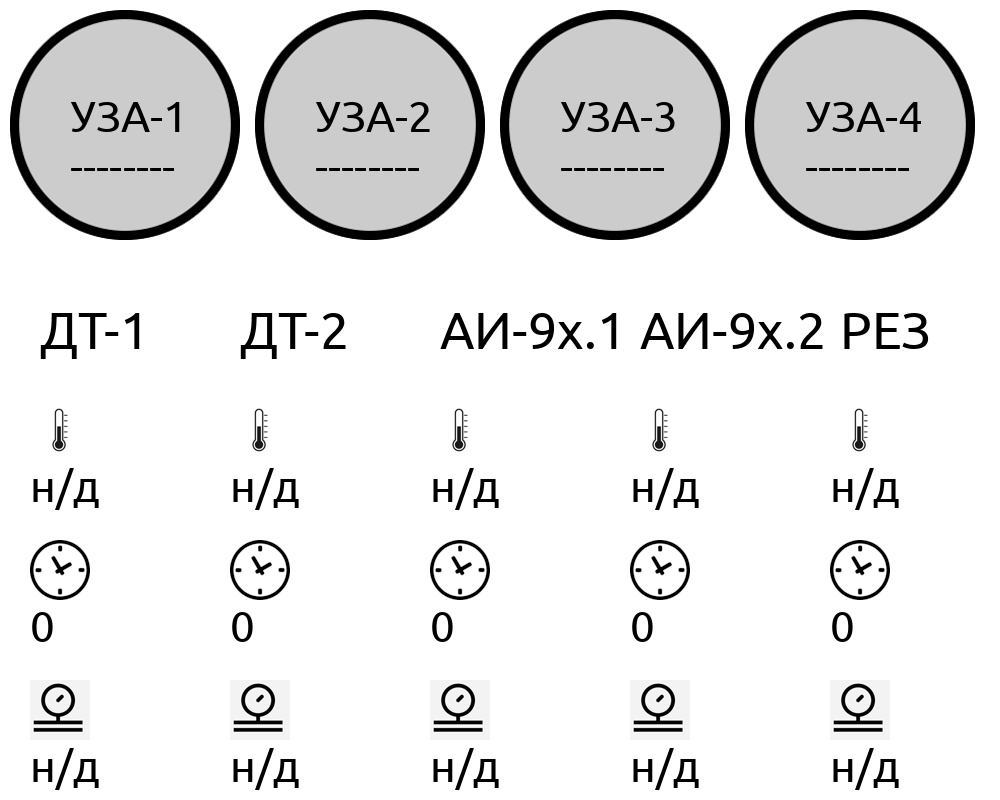
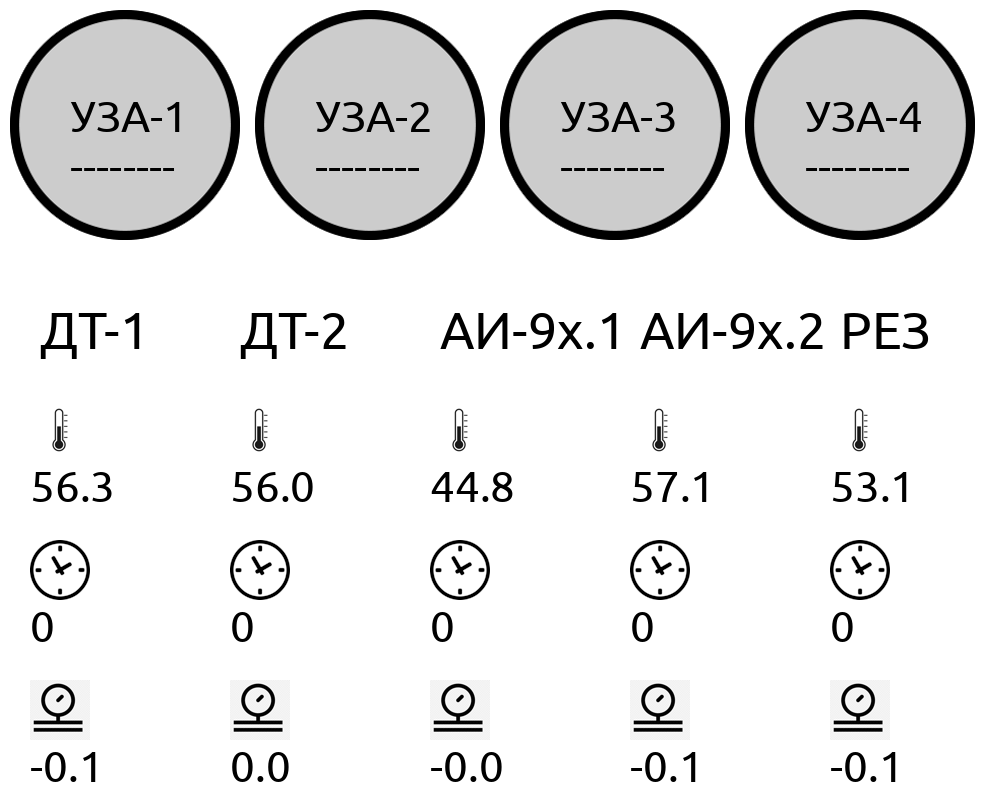
округлил давление и температуру до десятых

diff --git a/service/modbus.py b/service/modbus.py
@@ -49,7 +49,7 @@ def process_data(client: ModbusBaseClient, data: list):
         for nm, vl in enumerate(convert_values(client, chunks(data[30:], 2)), start=1)
     ]
     pumps = [
-        Pump(name=i[0], pressure=i[1], temperature=i[2], work=i[3])
+        Pump(name=i[0], pressure=round(i[1], 1), temperature=round(i[2], 1), work=i[3])
         for i in zip(PUMPS, pressures, temperatures, pumpworks)
     ]
     return dict(
